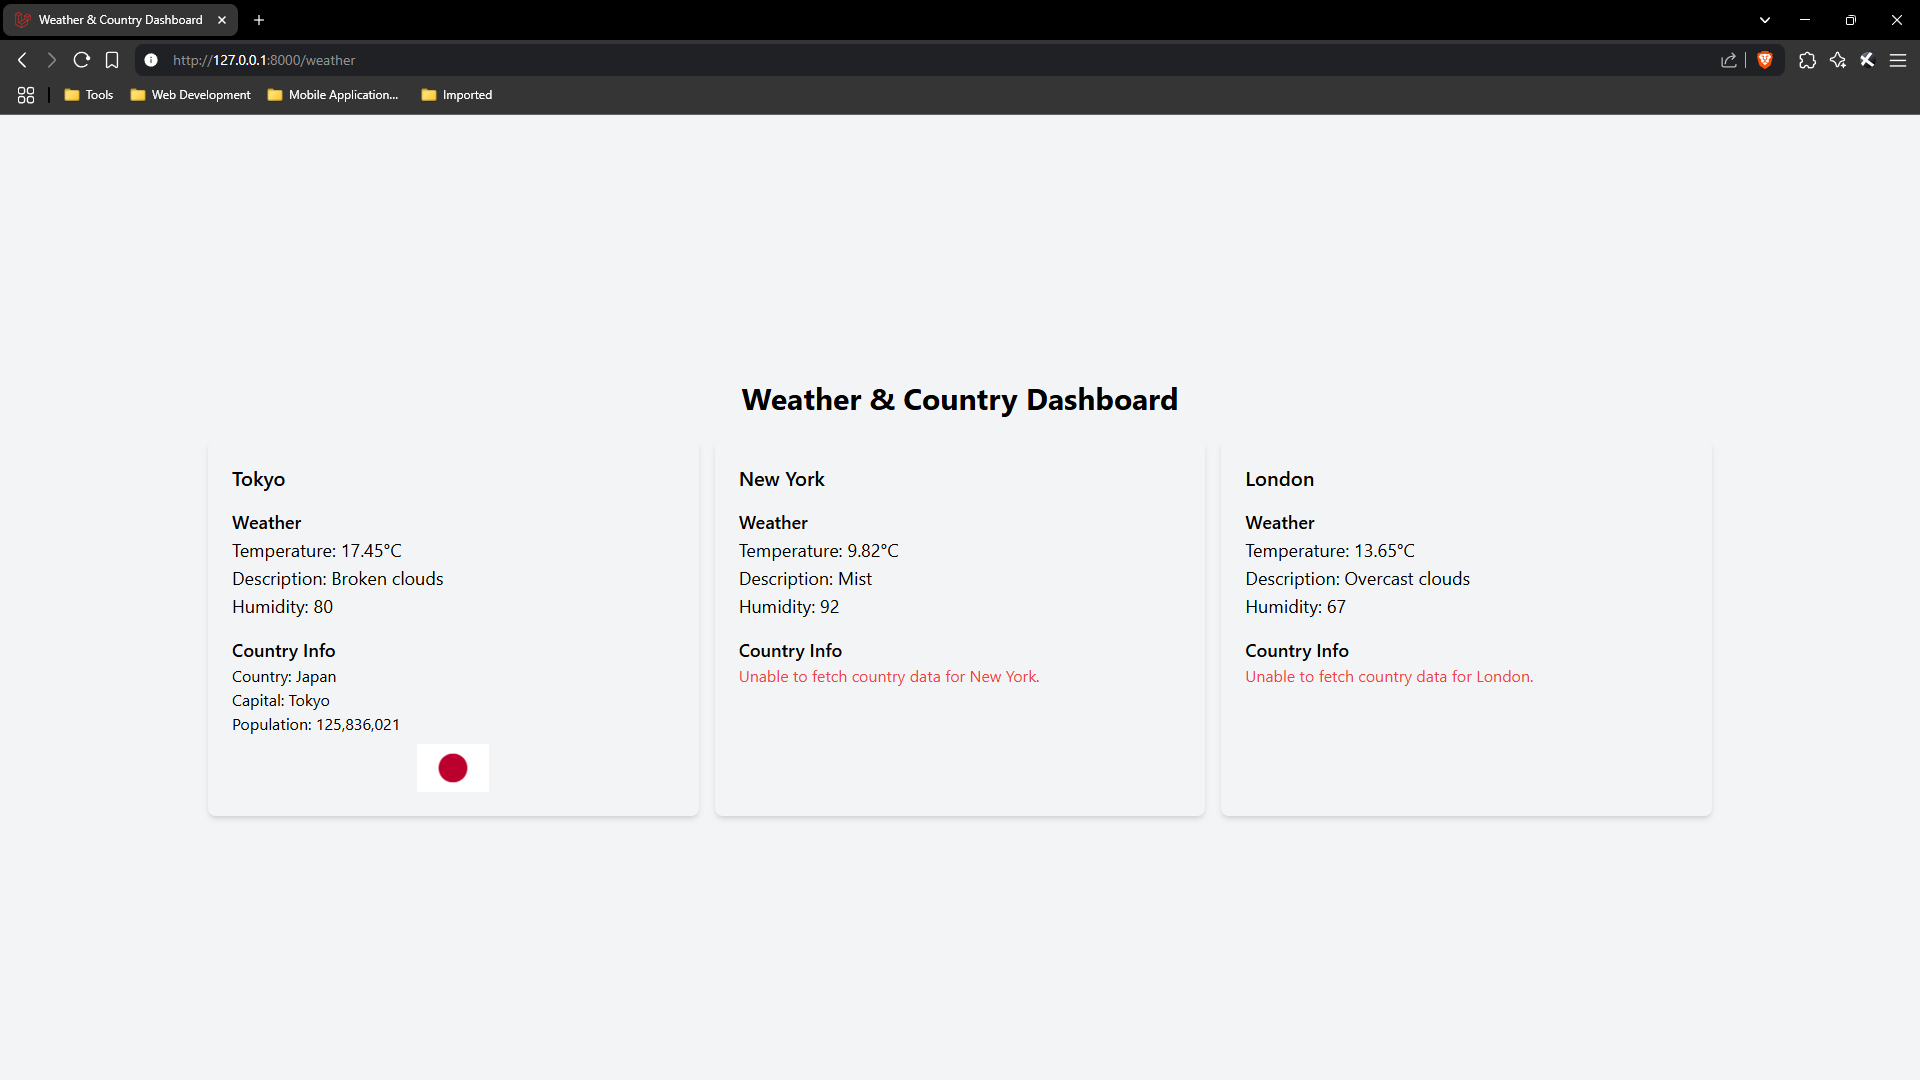
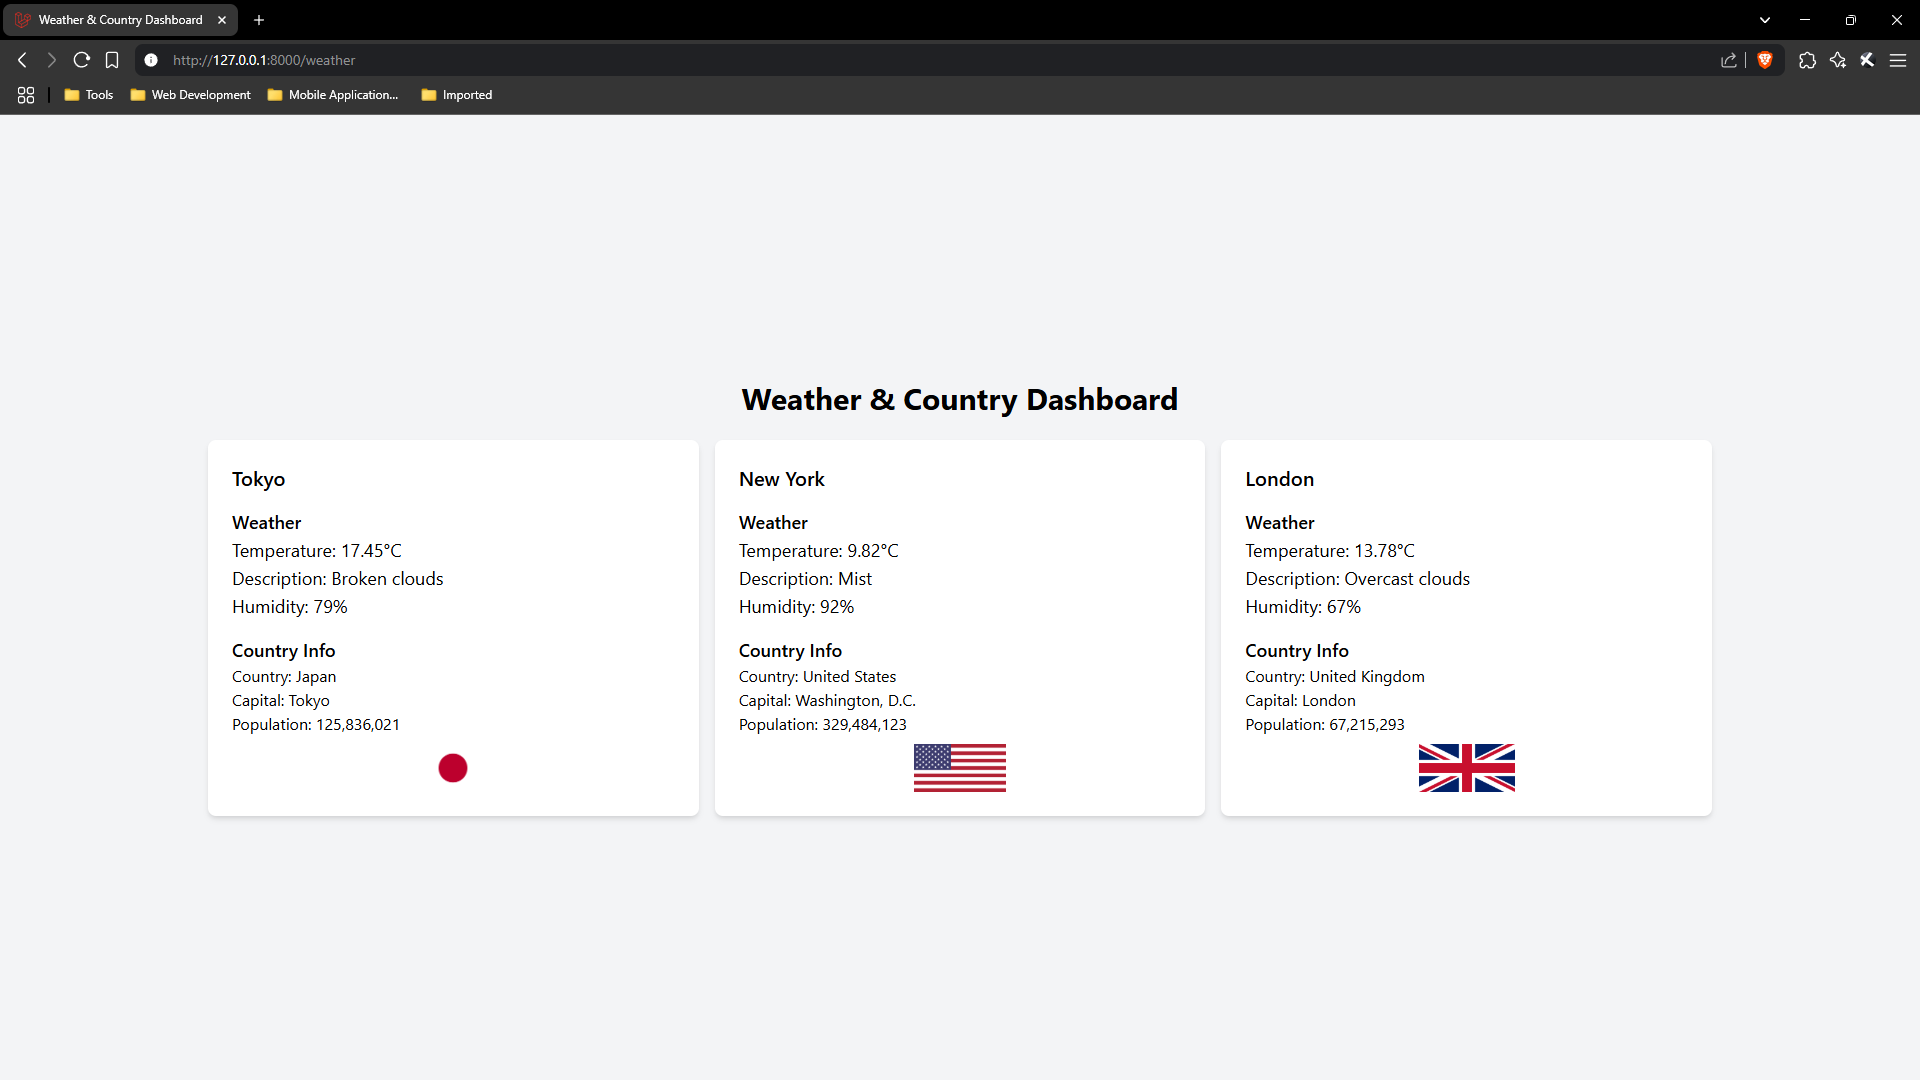
Updates

diff --git a/Finals_Activity6/barrientos_finals_activity5/app/Http/Controllers/WeatherController.php b/Finals_Activity6/barrientos_finals_activity5/app/Http/Controllers/WeatherController.php
@@ -12,46 +12,48 @@ class WeatherController extends Controller
         $cities = ['Tokyo', 'New York', $city];
         $apiKey = env('OPENWEATHER_API_KEY');
         $weatherData = [];
+        $countryData = [];
 
         foreach ($cities as $cityName) {
-            $response = Http::get("https://api.openweathermap.org/data/2.5/weather", [
+            $weatherResponse = Http::get("https://api.openweathermap.org/data/2.5/weather", [
                 'q' => $cityName,
                 'appid' => $apiKey,
                 'units' => 'metric',
             ]);
 
-            if ($response->successful()) {
+            if ($weatherResponse->successful()) {
+                $weatherJson = $weatherResponse->json();
                 $weatherData[$cityName] = [
-                    'temperature' => $response->json()['main']['temp'],
-                    'description' => $response->json()['weather'][0]['description'],
-                    'humidity' => $response->json()['main']['humidity'],
+                    'temperature' => $weatherJson['main']['temp'],
+                    'description' => $weatherJson['weather'][0]['description'],
+                    'humidity' => $weatherJson['main']['humidity'],
                 ];
+
+                $countryCode = $weatherJson['sys']['country'] ?? null;
+
+                if ($countryCode) {
+                    $countryResponse = Http::get('https://restcountries.com/v3.1/alpha/' . $countryCode);
+
+                    if ($countryResponse->successful() && !empty($countryResponse->json())) {
+                        $countryJson = $countryResponse->json()[0];
+                        $countryData[$cityName] = [
+                            'country' => $countryJson['name']['common'],
+                            'capital' => isset($countryJson['capital']) ? $countryJson['capital'][0] : 'N/A',
+                            'population' => $countryJson['population'] ?? 'N/A',
+                            'flag' => $countryJson['flags']['png'] ?? null,
+                        ];
+                    } else {
+                        $countryData[$cityName] = null;
+                    }
+                } else {
+                    $countryData[$cityName] = null;
+                }
             } else {
                 $weatherData[$cityName] = null;
-            }
-        }
-
-        $countries = [
-            'New York' => 'United States of America',
-            'Tokyo' => 'Japan',
-            $city => ($city === 'London' ? 'United Kingdom' : $city)
-        ];
-        $countryData = [];
-
-        foreach ($countries as $cityName => $countryName) {
-            $response = Http::get('https://restcountries.com/v3.1/name/' . urlencode($countryName));
-            if ($response->successful() && !empty($response->json())) {
-                $data = $response->json()[0];
-                $countryData[$cityName] = [
-                    'country' => $data['name']['common'],
-                    'capital' => isset($data['capital']) ? $data['capital'][0] : 'N/A',
-                    'population' => $data['population'] ?? 'N/A',
-                    'flag' => $data['flags']['png'] ?? null,
-                ];
-            } else {
                 $countryData[$cityName] = null;
             }
         }
+
         return view('weather', compact('weatherData', 'countryData'));
     }
 }

diff --git a/Finals_Activity6/barrientos_finals_activity5/resources/views/weather.blade.php b/Finals_Activity6/barrientos_finals_activity5/resources/views/weather.blade.php
@@ -13,13 +13,13 @@
         <h1 class="text-3xl font-bold text-center mb-6">Weather & Country Dashboard</h1>
         <div class="grid grid-cols-1 md:grid-cols-3 gap-4">
             @foreach ($weatherData as $city => $weather)
-                <div class="bg-gray p-6 rounded-lg shadow-md">
+                <div class="bg-white p-6 rounded-lg shadow-md">
                     <h2 class="text-xl font-semibold mb-2">{{ $city }}</h2>
                     <h3 class="text-lg font-medium mt-4">Weather</h3>
                     @if ($weather)
                         <p class="text-lg">Temperature: {{ $weather['temperature'] }}°C</p>
                         <p class="text-lg">Description: {{ ucfirst($weather['description']) }}</p>
-                        <p class="text-lg">Humidity: {{ $weather['humidity'] }}</p>
+                        <p class="text-lg">Humidity: {{ $weather['humidity'] }}%</p>
                     @else
                         <p class="text-red-500 text-base">Unable to fetch weather data for {{ $city }}.</p>
                     @endif
@@ -30,13 +30,13 @@
                         <p class="text-base">Capital: {{ $countryData[$city]['capital'] }}</p>
                         <p class="text-base">Population: {{ number_format($countryData[$city]['population']) }}</p>
                         @if ($countryData[$city]['flag'])
-                            <img src="{{ $countryData[$city]['flag'] }}" alt="Flag" class="mx-auto h-12 mt-2">
+                            <img src="{{ $countryData[$city]['flag'] }}"
+                                alt="Flag of {{ $countryData[$city]['country'] }}" class="mx-auto h-12 mt-2">
                         @else
                             <p class="text-gray-500 text-base">No flag available</p>
                         @endif
                     @else
-                        <p class="text-red-500 text-base">Unable to fetch country data for
-                            {{ $countries[$city] ?? $city }}.</p>
+                        <p class="text-red-500 text-base">Unable to fetch country data for {{ $city }}.</p>
                     @endif
                 </div>
             @endforeach
